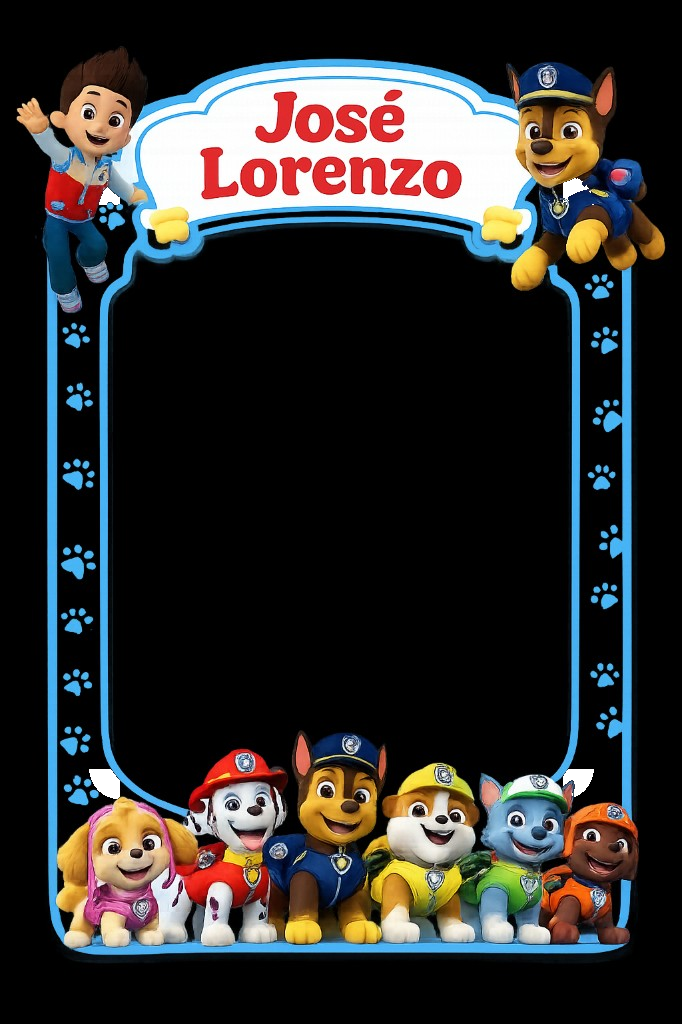
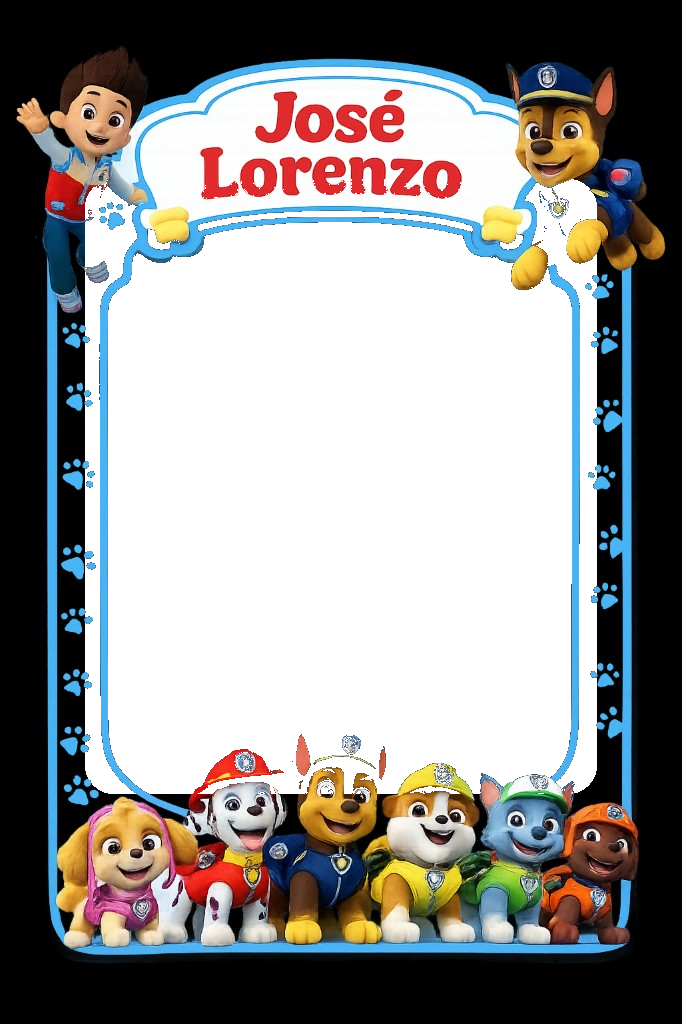
fix(foto): corrige transparencia da janela e captura da camera

diff --git a/foto.html b/foto.html
@@ -66,6 +66,7 @@
     #video {
       position: absolute;
       inset: 0;
+      z-index: 0;
       width: 100%;
       height: 100%;
       object-fit: cover;
@@ -245,7 +246,7 @@
       <img
         id="frame-overlay"
         class="frame-overlay"
-        src="assets/moldura-patrulha.png?v=2"
+        src="assets/moldura-patrulha.png?v=3"
         alt=""
         aria-hidden="true"
         decoding="async"
@@ -309,12 +310,18 @@
         }
       }
 
-      var FRAME_SRC = "assets/moldura-patrulha.png?v=2";
+      var FRAME_SRC = "assets/moldura-patrulha.png?v=3";
       var FRAME_W = 682;
       var FRAME_H = 1024;
       var VIDEO_FOCUS_Y = 0.42;
-      var frameOverlay = document.getElementById("frame-overlay");
+      var frameReady = false;
       var frameImage = new Image();
+      frameImage.onload = function () {
+        frameReady = frameImage.naturalWidth > 0;
+      };
+      frameImage.onerror = function () {
+        frameReady = false;
+      };
       frameImage.src = FRAME_SRC;
 
       function drawVideoCover(ctx, targetW, targetH, mirror) {
@@ -338,15 +345,17 @@
       }
 
       function drawFrame(ctx, w, h) {
-        if (frameImage.complete && frameImage.naturalWidth) {
-          ctx.imageSmoothingEnabled = true;
-          ctx.imageSmoothingQuality = "high";
-          ctx.drawImage(frameImage, 0, 0, w, h);
-        }
+        if (!frameReady) return;
+        ctx.imageSmoothingEnabled = true;
+        ctx.imageSmoothingQuality = "high";
+        ctx.drawImage(frameImage, 0, 0, w, h);
       }
 
       function capturePhoto() {
-        if (!video.videoWidth || !video.videoHeight) return;
+        if (!video.videoWidth || !video.videoHeight) {
+          showError("Aguarde a câmera iniciar e tente de novo.");
+          return;
+        }
 
         canvas.width = FRAME_W;
         canvas.height = FRAME_H;
@@ -520,7 +529,10 @@
           .then(function (s) {
             stream = s;
             video.srcObject = s;
-            btnSnap.disabled = false;
+            video.onloadedmetadata = function () {
+              video.play().catch(function () {});
+              btnSnap.disabled = false;
+            };
             errorEl.classList.remove("is-visible");
           })
           .catch(function () {
@@ -541,14 +553,7 @@
       btnCamFront.addEventListener("click", function () { startCamera("user"); });
       btnFlip.addEventListener("click", flipCamera);
 
-      btnSnap.addEventListener("click", function () {
-        if (frameImage.complete && frameImage.naturalWidth) {
-          capturePhoto();
-          return;
-        }
-        frameImage.onload = capturePhoto;
-        frameImage.src = FRAME_SRC;
-      });
+      btnSnap.addEventListener("click", capturePhoto);
 
       btnSave.addEventListener("click", saveToGallery);
 

diff --git a/index.html b/index.html
@@ -850,7 +850,7 @@
     <section class="qr-section" aria-labelledby="qr-title">
       <h3 id="qr-title">📷 Foto da missão</h3>
       <p>Tire uma foto com a moldura da Patrulha Canina!</p>
-      <a class="btn-camera" id="qr-camera-link" href="foto.html?v=4">Abrir câmera temática</a>
+      <a class="btn-camera" id="qr-camera-link" href="foto.html?v=5">Abrir câmera temática</a>
     </section>
 
     <section class="mission" aria-label="Mensagem da turma">
@@ -953,7 +953,7 @@
 
       var cameraLink = document.getElementById("qr-camera-link");
       if (cameraLink) {
-        cameraLink.href = new URL("foto.html?v=4", window.location.href).href;
+        cameraLink.href = new URL("foto.html?v=5", window.location.href).href;
       }
 
       function hideOverlay() {
